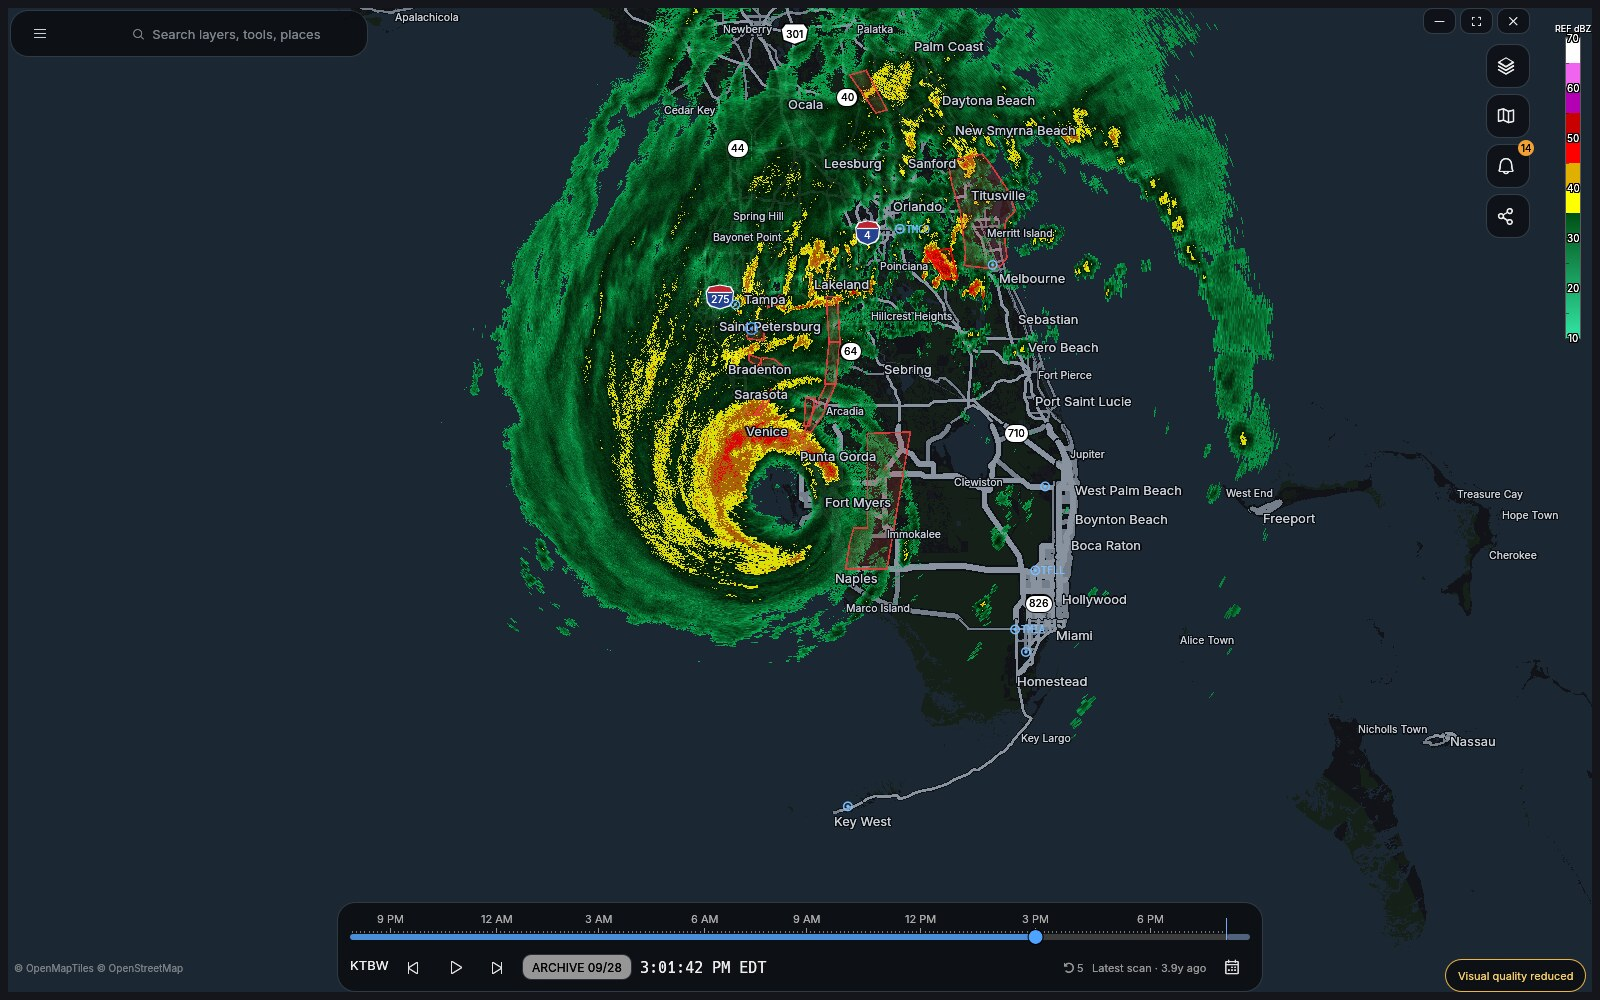
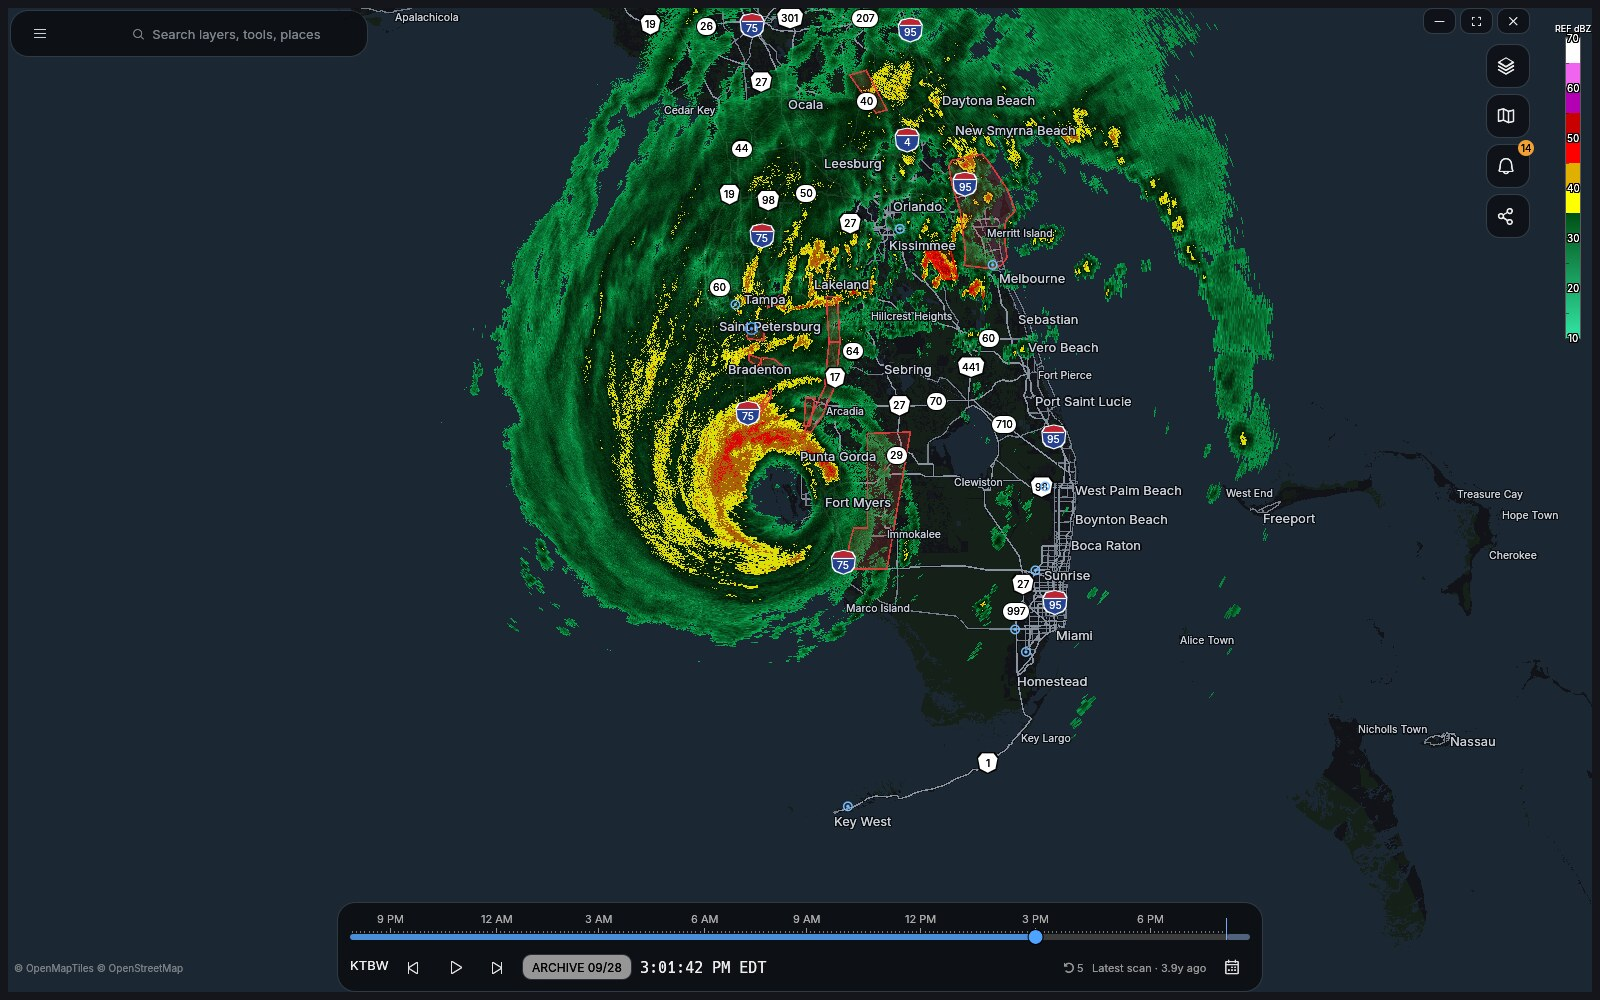
docs: refresh product galleries and animated website heroes

diff --git a/docs/technical-reference.md b/docs/technical-reference.md
@@ -18,6 +18,8 @@ The whole app as wasm, on live data, with nothing to install.
 
 If HookEcho is useful to you, please [give the project a star](https://github.com/d4vid87/hookecho/stargazers).
 
+<a id="screenshots"></a>
+
 ![Moore, Oklahoma, 20 May 2013 — KTLX 0.5° reflectivity, replayed from the archive](shots/hero.gif)
 
 <sub>**KTLX 0.5° reflectivity — Moore, Oklahoma, 20 May 2013.** Replayed from the
@@ -205,7 +207,7 @@ highs and lows with pressures.
 | Surface analysis | Point forecast |
 |---|---|
 | ![Fronts, highs and lows across the country](shots/fronts.jpg) | ![A seven-day forecast for a clicked point](shots/forecast.jpg) |
-| <sub>WPC coded surface analysis, live</sub> | <sub>Tap anywhere — KBMX, live</sub> |
+| <sub>WPC coded surface analysis, live</sub> | <sub>Tap anywhere — Oklahoma, live</sub> |
 
 Also on the forecast tail: **rotation tracks** (HRRR max updraft-helicity swaths
 — where storms are forecast to rotate, accumulated across the hours you scrub
@@ -219,7 +221,7 @@ happening here" — plus rainfall accumulated over the last hour or day.
 
 | National mosaic | 24-hour rainfall |
 |---|---|
-| ![MRMS composite reflectivity across the continental US](shots/mrms.jpg) | ![Accumulated rainfall across the Southeast](shots/qpe.jpg) |
+| ![MRMS composite reflectivity across the continental US](shots/mrms.jpg) | ![Accumulated rainfall across the southern Plains](shots/qpe.jpg) |
 | <sub>MRMS composite reflectivity, live</sub> | <sub>MRMS gauge-corrected precipitation, live</sub> |
 
 There is also a **multi-radar mosaic** built the other way round: instead of a
@@ -229,9 +231,9 @@ sites join without a seam. It shows which radars it used and how old the oldest
 scan in it is, because radars scan on their own schedules and a composite is
 never one instant.
 
-![Base reflectivity from six radars composited across the southern Plains](shots/mosaic.jpg)
+![Base reflectivity from neighboring radars composited across the southern Plains](shots/mosaic.jpg)
 
-<sub>Six radars, one picture — live N0B composite</sub>
+<sub>Neighboring radars, one picture — live N0B composite</sub>
 
 Alongside them: individual lightning flashes from the GOES satellite's lightning
 mapper (fading as they age), cloud-to-ground lightning density, rotation tracks
@@ -458,7 +460,10 @@ clearing a cache costs the next fetch and nothing else.
 
 ### On your phone
 
-![HookEcho on Android replaying the Moore, Oklahoma tornado of 20 May 2013](shots/android/hero.gif)
+These refreshed compact-layout captures show the current browser app. Native Android store images
+are maintained separately and require a connected Android device to recapture.
+
+![HookEcho mobile browser replaying the Moore, Oklahoma tornado of 20 May 2013](shots/mobile/hero.gif)
 
 <sub>**The same Rust app, rebuilt around the phone.** KTLX 0.5° reflectivity,
 20 May 2013, stepped out of the archive as the hook closes off, with the tornado
@@ -473,9 +478,9 @@ data paths, laid out for a thumb:
 
 | | |
 |---|---|
-| ![The map, with the search pill, the control column and the scrubber floating over it](shots/android/map.jpg) | ![The layers and tools sheet](shots/android/layers.jpg) |
+| ![The map, with the search pill, the control column and the scrubber floating over it](shots/mobile/map.jpg) | ![The layers and tools sheet](shots/mobile/layers.jpg) |
 | **Map first.** The radar owns the screen. One pill names the site and its VCP, a column of buttons runs down the thumb's side, and the scrubber floats along the bottom edge. | **Panels come up as sheets.** The same described, categorized registry the desktop panel uses, with the tilt strip and product options above it. |
-| ![Alerts in view, listed in the sheet](shots/android/alerts.jpg) | ![The radar site picker, nearest first](shots/android/site.jpg) |
+| ![Alerts in view, listed in the sheet](shots/mobile/alerts.jpg) | Use the search pill to find a place or radar site. |
 | **Alerts in view** on their own tab of that sheet — tap one to fly there and read the bulletin. | **Nearest first.** The site picker sorts by distance from wherever you are looking, over every WSR-88D, TDWR and DWD radar the app can fetch. |
 
 - Every tool window — soundings, cross-sections, settings, the site picker — is
@@ -935,7 +940,7 @@ cargo run --release -- --headless-rules KTLX                # would your alert r
 cargo test    # 303 offline unit tests
 ```
 
-The screenshots in this README are regenerated by `scripts/shots/shoot.sh`,
+The desktop screenshots in this reference are regenerated by `scripts/shots/shoot.sh`,
 which drives the real binary on a nested X display — see
 [`scripts/shots/README.md`](../scripts/shots/README.md).
 

diff --git a/scripts/shots/README.md b/scripts/shots/README.md
@@ -97,3 +97,10 @@ Look at every frame. The script cannot tell a good screenshot from a bad one.
 Then `./shoot.sh check` for the mechanical part, and confirm the whole set shares one basemap.
 The theme is pinned to Dark in `settings.template.json` — the shoot no longer inherits whatever
 theme your own config happens to be on, so the set can't drift a shot at a time.
+
+The public documentation currently uses `docs/shots/mobile/` browser captures.
+The `android` command refreshes native Android/store captures when a physical device is connected.
+
+To refresh the browser phone set, run `node scripts/shots/mobile-browser.cjs` from the repository root
+with Playwright and Chromium installed. Encode `/tmp/hookecho-mobile-frames/%d.png` at 2 fps
+with ffmpeg to `docs/shots/mobile/hero.gif`. These are browser previews, not Android store assets.

diff --git a/README.md b/README.md
@@ -18,6 +18,14 @@ No account. No ads. No API key. Free and open source.
 
 ![HookEcho replaying the Moore, Oklahoma tornado of May 20, 2013](docs/shots/hero.gif)
 
+## Current interface
+
+| Reflectivity | Velocity |
+| --- | --- |
+| ![Archived supercell reflectivity](docs/shots/reflectivity.jpg) | ![Archived storm velocity](docs/shots/velocity.jpg) |
+
+[See the complete screenshot gallery](docs/technical-reference.md#screenshots).
+
 ## Start here
 
 The quickest way to use HookEcho is to [open the radar in your browser](https://app.hookecho.io/).

diff --git a/scripts/checks/README.md b/scripts/checks/README.md
@@ -1,0 +1,10 @@
+# Website media check
+
+Build `site/`, serve `site/dist` on port 8095, and run:
+
+```sh
+node scripts/checks/site-media.cjs
+```
+
+Requires Playwright and Chromium (`/usr/bin/chromium`). Checks both product GIFs,
+pause/resume controls, reduced-motion posters, and mobile horizontal overflow.
